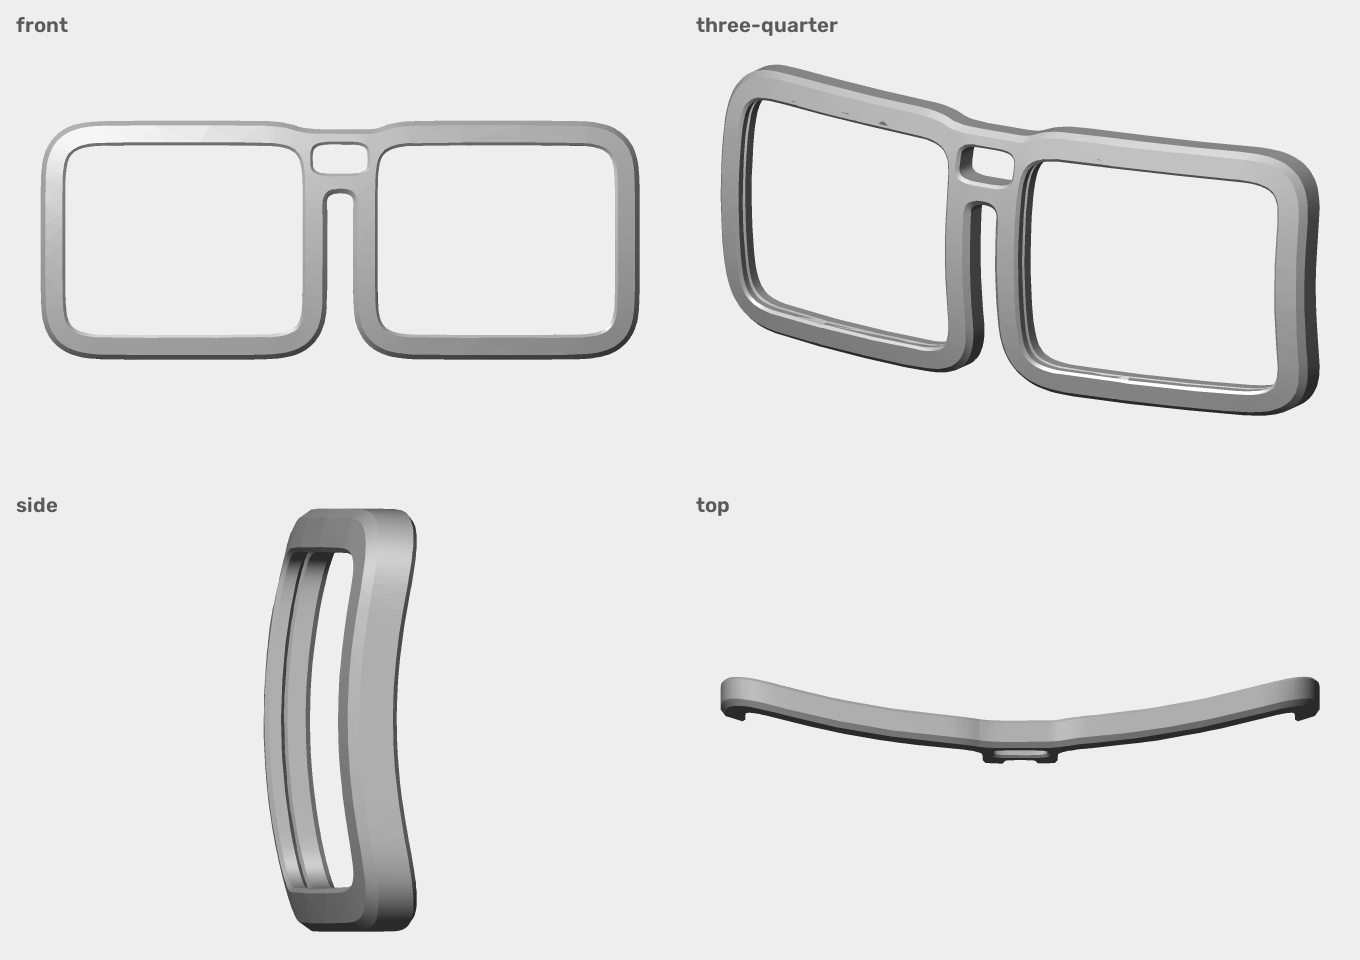
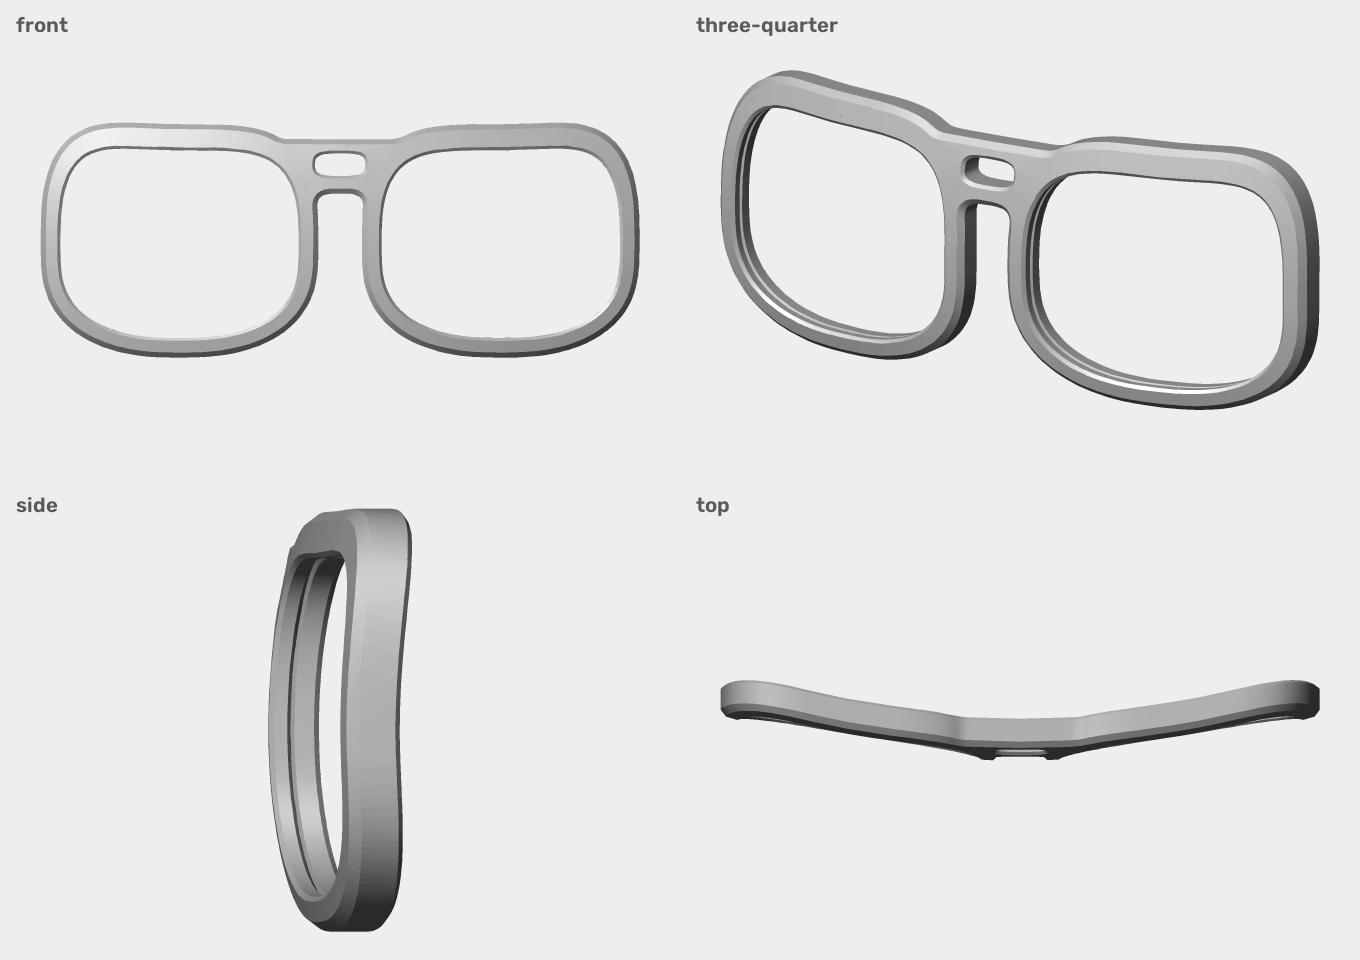
A frame worth putting at the top of the page
The example front was a box: one superellipse at corner=0.22, symmetric top
to bottom, with a rectangular block laid over the bridge. Three changes, each
visible:

- lens_shape() blends two exponents across the curve, flat along the top and
  rounder underneath, which is what a lens outline actually does. A single
  superellipse cannot: it is symmetric, and that is why it read as a box.
- the brow is the grown lens shape shifted up, not a bar laid over it. A bar
  ends square where the lens has already narrowed, and the step at the outer
  corner survives any amount of smoothing.
- the saddle bridge takes its height from the brow it joins, and the window
  takes its position from the bridge as built. Both were worked out
  separately before, and both went wrong the moment a brow parameter moved.

front.py now also writes the two animations the README opens and closes with,
so every picture in the repository comes from a script in it.

diff --git a/examples/eyewear/front.py b/examples/eyewear/front.py
@@ -9,8 +9,8 @@ Run it:
 
     python examples/eyewear/front.py
 
-Writes out/front.stl, out/front.step, out/front_views.png and prints the
-parameter table and the checks.
+Writes out/front.stl, out/front.step, out/front_views.png, two GIFs, and
+prints the parameter table and the checks.
 """
 from __future__ import annotations
 
@@ -26,7 +26,8 @@ sys.path.insert(0, str(Path(__file__).resolve().parents[2] / "src"))
 
 from rgeo import (Assumed, CheckList, Fitted, Measured, ParamSet, STANDARD_VIEWS,
                   Shell, Torus, WallProfile, grid, label, mass, mean_radial_gap,
-                  mesh, mesh_report, offset, resample, views)
+                  mesh, mesh_report, offset, resample, rock, turntable, views,
+                  write_gif)
 from rgeo import ccw
 
 OUT = Path(__file__).resolve().parent / "out"
@@ -39,14 +40,21 @@ def parameters() -> ParamSet:
     came out of - a navigator front measured off product photography.
     """
     return ParamSet(
-        lens_width=Assumed(56.0, "typical aviator boxing",
+        lens_width=Assumed(52.0, "typical boxing for this frame size",
                            "nothing in a photo fixes absolute scale"),
-        lens_height=Measured(44.8, "front photo", "bounding box of the opening"),
-        dbl=Measured(17.6, "front photo", "gap between the openings"),
-        rim_top=Measured(3.7, "front photo", "brow bar above the lens"),
-        rim_side=Measured(5.7, "front photo", "median radial gap"),
-        corner=Assumed(0.22, "navigator shape", "0 = rectangle, 1 = ellipse",
-                       unit=""),
+        lens_height=Assumed(41.0, "a frame is wider than it is tall",
+                            "w:h about 1.27, the usual band"),
+        dbl=Assumed(18.0, "bridge width", "the usual 16 to 20"),
+        rim_top=Assumed(5.6, "brow bar above the lens",
+                        "the heavy top edge this family is recognised by"),
+        rim_side=Assumed(4.2, "rim beside the lens",
+                         "lighter than the brow, which is the point"),
+        corner_top=Assumed(0.52, "flat under the brow",
+                           "0 = rectangle, 1 = ellipse", unit=""),
+        corner_bottom=Assumed(0.78, "rounder underneath",
+                              "0 = rectangle, 1 = ellipse", unit=""),
+        lens_rise=Assumed(0.07, "lift at the outer top corner",
+                          "fraction of the lens height", unit=""),
         base_curve=Assumed(6.0, "most common lens base curve", unit=""),
         front_radius=Fitted(220.0, "three-quarter view",
                             "flat optimum, 68-69% across 220..320"),
@@ -57,60 +65,92 @@ def parameters() -> ParamSet:
         groove_depth=Assumed(0.7, "standard lens bevel"),
         groove_width=Assumed(0.9, "standard lens bevel"),
         groove_from_front=Assumed(2.6, "lens sits this far behind the front"),
-        bridge_window=Measured(13.0, "front photo", "width of the opening"),
-        bridge_window_h=Measured(7.0, "front photo", "height of the opening"),
+        bridge_window=Assumed(11.0, "width of the opening in the bridge"),
+        bridge_window_h=Assumed(5.0, "height of that opening"),
         bridge_window_top=Assumed(
-            3.5, "material left above the window, below the brow bar top"),
+            3.0, "material left above the window, below the brow bar top"),
     )
 
 
-def superellipse(width, height, corner, n=200, centre=(0.0, 0.0)):
-    """A rounded rectangle that reads as a navigator shape.
+def lens_shape(width, height, corner_top=0.40, corner_bottom=0.62,
+               rise=0.05, n=220, centre=(0.0, 0.0)):
+    """A spectacle lens outline: flatter along the top, rounder underneath.
 
-    `corner` runs 0 (rectangle) to 1 (ellipse). Real lens shapes come from a
-    DXF or a trace; this is here so the example needs no outside data.
+    A single superellipse is symmetric top to bottom, which is why it reads as
+    a box rather than a frame. Real lens shapes are not: the top edge runs
+    almost straight under the brow and the bottom is noticeably rounder. Two
+    exponents, blended across the curve, is the smallest change that fixes it.
+
+    `corner` runs 0 (rectangle) to 1 (ellipse). `rise` lifts the outer top
+    corner, which is what gives a frame its lift instead of a deadpan
+    horizontal.
     """
-    e = 2.0 / max(corner, 1e-3)
     t = np.linspace(0, 2 * np.pi, n * 8, endpoint=False)
-    c, s = np.cos(t), np.sin(t)
+    c, s_ = np.cos(t), np.sin(t)
+    # blend the exponent between the top half and the bottom half
+    upper = (s_ + 1) / 2
+    corner = corner_bottom + (corner_top - corner_bottom) * upper
+    e = 2.0 / np.clip(corner, 1e-3, None)
     x = np.sign(c) * np.abs(c) ** (2.0 / e) * width / 2
-    y = np.sign(s) * np.abs(s) ** (2.0 / e) * height / 2
-    # by arc length, not by angle: a square-ish superellipse sampled by angle
-    # puts most of its points on the flats and almost none on the corners
+    y = np.sign(s_) * np.abs(s_) ** (2.0 / e) * height / 2
+    y = y + rise * height * np.clip(c, 0, None) * np.clip(s_, 0, None)
     return resample(np.c_[x + centre[0], y + centre[1]], n)
 
 
 def outlines(p: ParamSet):
     """Lens openings, bridge window and the front silhouette around them."""
     half = p.dbl / 2 + p.lens_width / 2
-    lens_r = superellipse(p.lens_width, p.lens_height, p.corner, centre=(half, 0))
+    lens_r = lens_shape(p.lens_width, p.lens_height, p.corner_top,
+                        p.corner_bottom, p.lens_rise, centre=(half, 0))
     lens_l = lens_r * np.array([-1.0, 1.0])
     lens_l = lens_l[::-1]                       # keep both counter-clockwise
     top = p.lens_height / 2 + p.rim_top
 
-    # The window sits in the bridge, between the lens openings: it has to be
-    # narrower than the DBL and leave material above it.
-    window = superellipse(p.bridge_window, p.bridge_window_h, 0.5, n=120,
-                          centre=(0.0, top - p.bridge_window_top
-                                  - p.bridge_window_h / 2))
-
-    # The silhouette is the two openings grown by the rim width, plus the
-    # bridge block that joins them. Without the block the two halves never
-    # meet: the rim is 5.7 mm and the gap between the lenses is 17.6 mm.
+    # The silhouette is the two openings grown by the rim width, joined by a
+    # brow bar that runs the full width. A block only in the middle leaves a
+    # step sticking up over the bridge; a continuous bar is both what the
+    # frame family actually looks like and the simpler shape.
+    from shapely.affinity import translate
     from shapely.geometry import Polygon
     from shapely.ops import unary_union
 
-    block_x = p.dbl / 2 + p.lens_width * 0.18
-    block_bottom = float(window[:, 1].min()) - p.rim_side * 0.8
-    block = Polygon([(-block_x, block_bottom), (block_x, block_bottom),
-                     (block_x, top), (-block_x, top)])
+    # The brow bar is the grown lens shape again, shifted up. A rectangular
+    # bar laid over the top leaves a step at the outer corner where it ends
+    # and the lens is already narrower; shifting the same curve means the top
+    # edge IS the lens shape, which is what a frame actually looks like.
+    lift = max(p.rim_top - p.rim_side, 0.0)
+    brows = []
+    for lens in (lens_l, lens_r):
+        g = Polygon(offset(lens, p.rim_side, keep_count=False))
+        brows += [g, translate(g, 0.0, lift)]
 
-    grown = unary_union([Polygon(offset(lens_l, p.rim_side, keep_count=False)),
-                         Polygon(offset(lens_r, p.rim_side, keep_count=False)),
-                         block])
-    if grown.geom_type == "MultiPolygon":
-        raise ValueError("the front fell apart - rim_side too small for this dbl")
-    grown = grown.buffer(2.0, join_style=1).buffer(-2.0, join_style=1)
+    # The saddle bridge. Without it there is no material below the brow
+    # between the lenses, and the window in it has nothing to sit in.
+    #
+    # Its top is taken from the brow it joins rather than from `top`: running
+    # it to the full height leaves a rectangular step standing over the
+    # bridge, because the brow follows the lens and has already fallen away
+    # by the time it reaches the middle.
+    brow = unary_union(brows)
+    bridge_x = p.dbl / 2 + p.lens_width * 0.07
+    strip = Polygon([(-bridge_x, -top), (bridge_x, -top),
+                     (bridge_x, top * 2), (-bridge_x, top * 2)])
+    shared = brow.intersection(strip)
+    bridge_top = (shared.bounds[3] if not shared.is_empty
+                  else p.lens_height / 2 + p.rim_side)
+    # The window sits in the bridge, so it is placed from the bridge the way
+    # it was actually built - not from a height worked out separately, which
+    # goes wrong the moment any brow parameter changes.
+    window = lens_shape(p.bridge_window, p.bridge_window_h, 0.62, 0.62,
+                        rise=0.0, n=120,
+                        centre=(0.0, bridge_top - p.bridge_window_top
+                                - p.bridge_window_h / 2))
+    bridge_bottom = float(window[:, 1].min()) - p.rim_side * 0.9
+    saddle = Polygon([(-bridge_x, bridge_bottom), (bridge_x, bridge_bottom),
+                      (bridge_x, bridge_top), (-bridge_x, bridge_top)])
+
+    grown = unary_union(brows + [saddle])
+    grown = grown.buffer(2.6, join_style=1).buffer(-2.6, join_style=1)
     # resample: the union leaves well over a thousand points, and both the
     # spline fit and the ruled faces cost time per point
     outer = resample(ccw(np.array(grown.exterior.coords)[:-1]), 320)
@@ -176,11 +216,21 @@ def main() -> int:
     cq.exporters.export(solid, str(OUT / "front.step"))
     json.dump(p.to_dict(), open(OUT / "front_params.json", "w"), indent=1)
 
-    v, t = mesh(solid, 0.02, 0.15)
+    v, t = mesh(solid, 0.015, 0.12)
     rendered = views(v, t, STANDARD_VIEWS, size=(680, 480))
     cv2.imwrite(str(OUT / "front_views.png"),
                 grid([label(img, name) for name, (img, _, _) in rendered.items()]))
     print(f"  wrote {OUT / 'front_views.png'}")
+
+    for name, frames in (
+            ("front_rock.gif", rock(v, t, size=(820, 420), frames=36,
+                                    amplitude=11.0, pitch=5.0,
+                                    background=246, supersample=3)),
+            ("front_turntable.gif", turntable(v, t, size=(560, 400), frames=42,
+                                              sweep=360.0, pitch=10.0,
+                                              background=246, supersample=3))):
+        gif = write_gif(frames, OUT / name, fps=24)
+        print(f"  wrote {gif.name}, {gif.stat().st_size / 1024:.0f} kB")
 
     print("\n[checks]")
     checks = check(p, solid)

diff --git a/README.md b/README.md
@@ -3,7 +3,7 @@
 Build parametric CAD in code when your reference is a photograph rather than a
 drawing, and prove afterwards how close you got.
 
-![a parametric eyewear front built with rgeo](docs/img/example-front.png)
+![a parametric eyewear front built with rgeo](docs/img/example-front.gif)
 
 ```python
 from rgeo import Shell, Torus, WallProfile, mesh_report
@@ -304,8 +304,6 @@ needs it.
 
 ## Turntables
 
-![a front turning in front of a still camera](docs/img/turntable.gif)
-
 A part is easier to judge turning than standing still, and a GIF goes in a
 pull request, an issue or a report without anyone installing a viewer.
 
@@ -324,6 +322,8 @@ The one thing easy to get wrong here is the camera. Fitting it per frame makes
 the model breathe in and out as its silhouette changes width, so `rgeo` sizes
 the view once, from the radius of the point cloud, and every frame shares that
 scale. There is a test for it.
+
+![a full turn in front of a still camera](docs/img/turntable.gif)
 
 `rock()` leaves a view and comes back instead of turning right round - for a
 front elevation shown next to its drawing, where losing the reference view
@@ -348,9 +348,12 @@ python examples/eyewear/glasses.py            # the whole pair: front, hinges, t
 python examples/eyewear/glasses.py --temple cable
 ```
 
+![the example rendered from four fixed cameras](docs/img/example-front.png)
+
 `front.py` builds a complete spectacle front - three openings, chamfers, lens
-groove, face-form wrap - from parameters alone. The outlines are generated,
-not traced, so the repository ships without anyone else's imagery.
+groove, face-form wrap - from parameters alone, and writes the turntable at
+the top of this page. The outlines are generated, not traced, so the
+repository ships without anyone else's imagery.
 `roundtrip.py` exercises the measuring half: it renders the model from a
 viewpoint the fitter is not told about and checks that the fitter finds it
 again. `glasses.py` puts the features together into seven parts - a front, two
